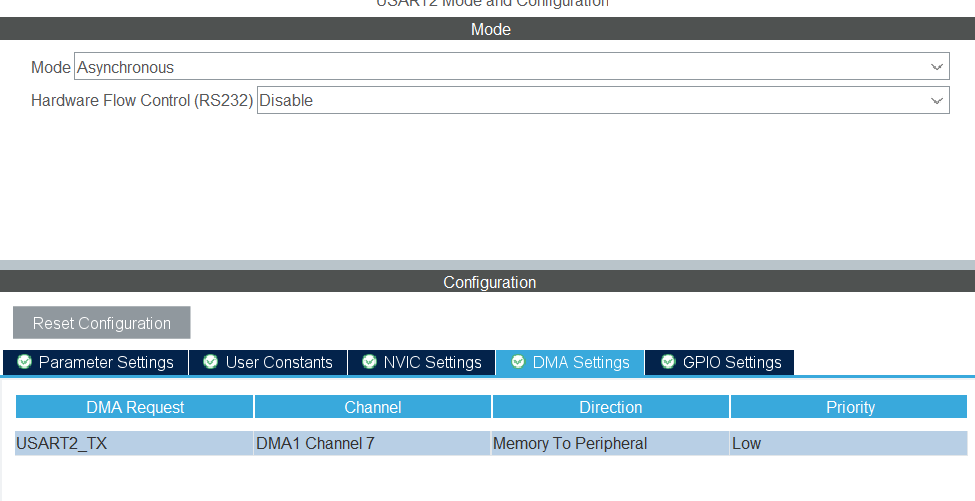
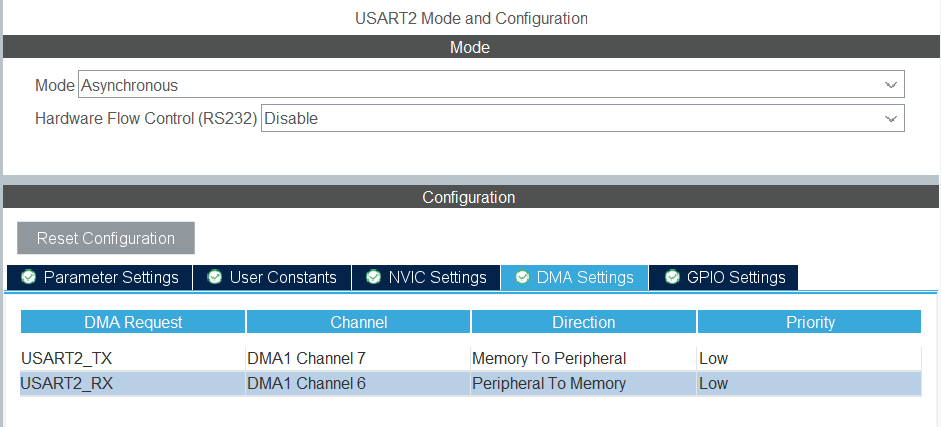
Update STM32-3

diff --git a/src/content/posts/STM32/STM32-3/STM32-3.md b/src/content/posts/STM32/STM32-3/STM32-3.md
@@ -158,6 +158,7 @@ void serial_Polling(void) {
     HAL_UART_Transmit(&huart2, (uint8_t*)message.invalid, strlen(message.invalid), HAL_MAX_DELAY);
   }
   }
+  return;
 }
 ```
 6. 完成功能外置后，我们回到`main.c`，在`while(1)`中只需写入：
@@ -200,14 +201,17 @@ void serial_IT(void){
     HAL_UART_Receive_IT(&huart2,receive_data, 2);
     is_receiving=1;
   }
+  return;
 }
 ```
-3. 当接收信息结束后，用**中断函数**`HAL_UART_RxCpltCallback`对接收到的信息进行处理：
+3. 当接收信息结束后，用**中断函数**`HAL_UART_RxCpltCallback`对接收到的信息进行处理，不过在处理之前，我们要先判断是否是`&huart2`发来的信息：
 ```c
 void HAL_UART_RxCpltCallback(UART_HandleTypeDef *huart){
-  switch (receive_data[0]) {
-  ...
+  if (huart==&huart2)
+  {
+    switch (receive_data[0]) {...}
   }
+  return;
 }
 ```
 4. 当然，在结尾处，我们不能忘了重新开启中断接收，以等待下一次的数据输入：<br>
@@ -229,16 +233,24 @@ HAL_UART_TxCpltCallback(UART_HandleTypeDef *huart);
 <big>DMA（Direct Memory Access），直接内存访问，可以协助处理器在寄存器与内存之间搬运数据。</big>
 
 ## 芯片配置
-在左侧选择**Connectivity**展开后选择**USART2**，进入下方的**DMA Settings**栏目，点击最下方的**Add**，为其添加一条DMA通道。
+在左侧选择**Connectivity**展开后选择**USART2**，进入下方的**DMA Settings**栏目，点击最下方的**Add**，为其添加DMA通道。
 <img src="/images/posts/STM32/STM32-3/dma.png" width="400" height="400"><br>
 
-## 接收信息
-//TODO
-## 发送信息
-//TODO
+## 代码配置
+启用DMA接收模式，需要用到以下函数：
+```c
+HAL_UART_Receive_DMA(UART_HandleTypeDef *huart, uint8_t *pData, uint16_t Size);
+HAL_UART_Transmit_DMA(UART_HandleTypeDef *huart, const uint8_t *pData, uint16_t Size);
+```
+设置DMA模式后，发送和接收的过程由DMA协助完成，处理器能够去处理其他指令，因此，和中断模式类似，DMA模式也是**非阻塞**的。<br>
+和**中断模式**类似，在发送/接收结束时，也会触发函数：<br>
+```c
+HAL_UART_RxCpltCallback(UART_HandleTypeDef *huart);
+```
+因此，同样地，我们需要在此函数对接收到的信息进行处理，在此不再赘述。
 
 # 不定长数据的接收
-<big>借助<strong>串口空闲中断</strong>，可以实现对不定长数据的接收。</big>
+<big>借助<strong>串口空闲中断</strong>，可以实现对不定长数据的接收。</big><br>
 同样地，它也拥有阻塞，中断，DMA三种模式：<br>
 
 ```c
@@ -246,14 +258,54 @@ HAL_UARTEx_ReceiveToIdle(UART_HandleTypeDef *huart, uint8_t *pData, uint16_t Siz
 HAL_UARTEx_ReceiveToIdle_IT(UART_HandleTypeDef *huart, uint8_t *pData, uint16_t Size);
 HAL_UARTEx_ReceiveToIdle_DMA(UART_HandleTypeDef *huart, uint8_t *pData, uint16_t Size);
 ```
-其中`*huart`，`*pData`与之前基本一致，而`*Rxlen`和`Size`的含义发生了改变：它表示的是一次能接受的最大数据长度。<br>
-当接收完毕后，会调用以下函数：
+其中`*huart`，`*pData`与之前基本一致，而`*Rxlen`和`Size`的含义发生了改变：它表示的是**一次能接受的最大数据长度**。<br>
+当接收完毕后，会调用以下回调函数：
 ```c
 HAL_UARTEx_RxEventCallback(UART_HandleTypeDef *huart, uint16_t Size);
 ```
-与`HAL_UART_RxCpltCallback`不同的是，`HAL_UARTEx_RxEventCallback`多了一个入参`Size`，它代表着此次接收了多少字节的数据。<br>
-//TODO
-
+与`HAL_UART_RxCpltCallback`不同的是，`HAL_UARTEx_RxEventCallback`多了一个入参`Size`，它代表着此次实际上接收了多少字节的数据。<br>
+在`serial.h`中添加函数声明：
+```c
+void serial_idle(void);
+void HAL_UARTEx_RxEventCallback(UART_HandleTypeDef *huart, uint16_t Size);
+```
+在`serial.c`中写入函数：
+```c
+uint8_t receive_data_2[50];
+void serial_idle(void){
+  if(is_receiving==0){
+    HAL_UARTEx_ReceiveToIdle_DMA(&huart2, receive_data_2, sizeof(receive_data_2));
+    is_receiving=1;
+  }
+  return;
+}
+void HAL_UARTEx_RxEventCallback(UART_HandleTypeDef *huart, uint16_t Size){
+  if(huart==&huart2){
+    HAL_UART_Transmit_DMA(&huart2, receive_data_2, Size);
+  }
+  is_receiving=0;
+  return;
+}
+```
+这样，我们从上位机输入任意长度的字符串时，单片机也会返回相同长度的字符串。<br>
+> [!note]
+> 注意，在DMA模式下，**DMA传输过半中断**也会触发`HAL_UARTEx_RxEventCallback`回调函数，即接收的数据量达到设定最大值的一半时，也会触发此回调函数。<br>
+> 因此，我们需要添加以下函数，以关闭**DMA传输过半中断**：
+> ```c
+> __HAL_DISABLE_DMA_IT(&hdma_usart2_rx,DMA_IT_HT);
+> ```
+> 修改后的`HAL_UARTEx_RxEventCallback`函数：
+> ```c
+>void HAL_UARTEx_RxEventCallback(UART_HandleTypeDef *huart, uint16_t Size){
+>  if(huart==&huart2){
+>    HAL_UART_Transmit_DMA(&huart2, receive_data_2, Size);
+>  }
+>  is_receiving=0;
+>  __HAL_DISABLE_DMA_IT(&hdma_usart2_rx,DMA_IT_HT);
+>  return;
+>}
+> ```
+> 别忘了也需要在程序开始时添加此函数。
 # 深入串口通信
 //TODO
 